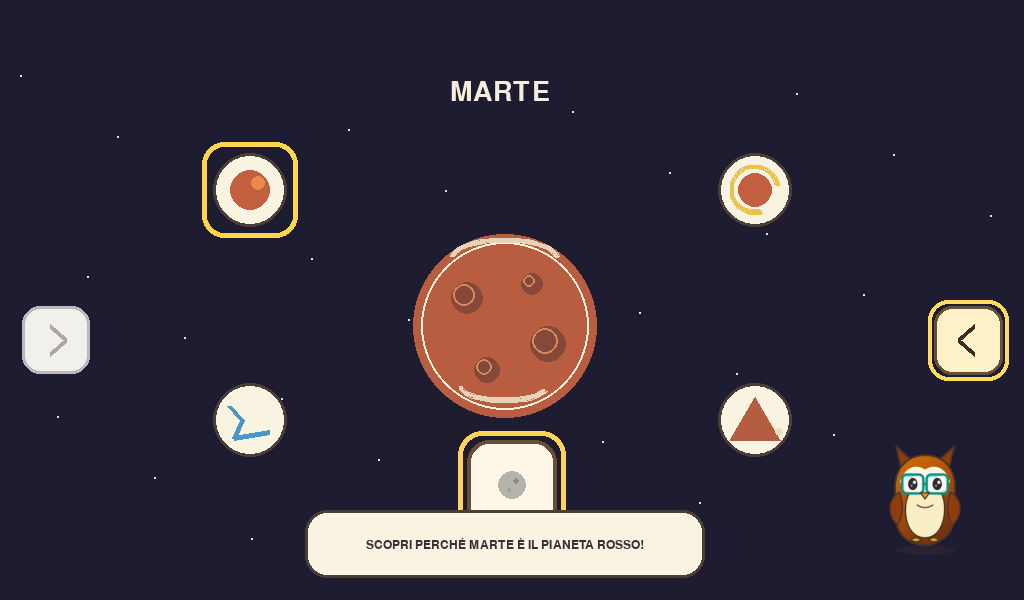
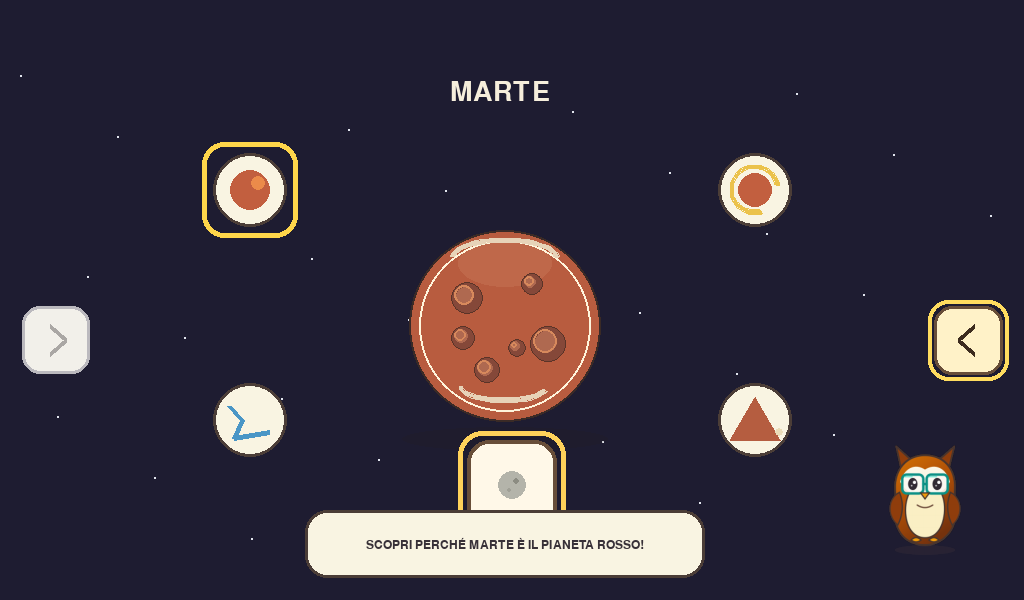
Encyclopedia: iterate space.mars - crater detail, rim light, terminator highlight
Iterative polish. Mars now 94px + drop shadow/rim, 6 craters with inner highlight/depth, subtle terminator. Next: body.bones etc.

diff --git a/activities/enciclopedia_greia/pages/mars.py b/activities/enciclopedia_greia/pages/mars.py
@@ -203,17 +203,27 @@ class MarsPage(EncyclopediaPage):
 
     def _draw_mars(self, surface: pygame.Surface) -> None:
         center = (505, 326)
-        radius = 92
-        # Soft shadow for tactile depth
-        shadow = pygame.Surface((radius * 2 + 16, 22), pygame.SRCALPHA)
-        pygame.draw.ellipse(shadow, (40, 28, 20, 32), shadow.get_rect())
-        surface.blit(shadow, (center[0] - radius - 8, center[1] + radius + 6))
-        base = (185, 93, 64) if self._rust_age <= 0 else (211, 104, 65)
+        radius = 94
+        # Soft drop shadow + rim light for depth
+        shadow = pygame.Surface((radius * 2 + 18, 24), pygame.SRCALPHA)
+        pygame.draw.ellipse(shadow, (40, 28, 20, 34), shadow.get_rect())
+        surface.blit(shadow, (center[0] - radius - 9, center[1] + radius + 7))
+        base = (184, 92, 63) if self._rust_age <= 0 else (210, 103, 64)
+        pygame.draw.circle(surface, (58, 42, 38), center, radius + 2)
         pygame.draw.circle(surface, base, center, radius)
-        pygame.draw.circle(surface, (255, 245, 220, 16), center, radius - 8, 2)
-        for dx, dy, rr in ((-38, -28, 16), (27, -42, 11), (43, 18, 18), (-18, 44, 13)):
-            pygame.draw.circle(surface, (133, 72, 57), (center[0] + dx, center[1] + dy), rr)
-            pygame.draw.circle(surface, (215, 137, 92), (center[0] + dx - 3, center[1] + dy - 3), max(3, rr - 5), 2)
+        # Subtle terminator highlight (not during rust pulse)
+        if self._rust_age == 0:
+            hl = pygame.Surface((radius * 2, radius * 2), pygame.SRCALPHA)
+            pygame.draw.ellipse(hl, (255, 225, 190, 22), (radius // 2, 8, radius, radius // 2))
+            surface.blit(hl, (center[0] - radius, center[1] - radius))
+        pygame.draw.circle(surface, (255, 245, 220, 14), center, radius - 8, 2)
+        # Craters — more, with inner highlight
+        for dx, dy, rr, depth in ((-38, -28, 16, 0.52), (27, -42, 11, 0.48), (43, 18, 18, 0.55), (-18, 44, 13, 0.50), (12, 22, 9, 0.44), (-42, 12, 12, 0.46)):
+            cx, cy = center[0] + dx, center[1] + dy
+            pygame.draw.circle(surface, (133, 72, 57), (cx, cy), rr)
+            pygame.draw.circle(surface, (175, 105, 80), (cx - 2, cy - 2), max(4, int(rr * 0.62)))
+            pygame.draw.circle(surface, (215, 137, 92), (cx - 3, cy - 3), max(3, rr - 6), 2)
+            pygame.draw.circle(surface, (90, 52, 40), (cx, cy), rr, 1)
         pygame.draw.arc(surface, (231, 211, 184), (450, 238, 110, 42), 0.1, 3.0, 5)
         pygame.draw.arc(surface, (231, 211, 184), (459, 371, 91, 33), 3.2, 6.0, 4)
 
